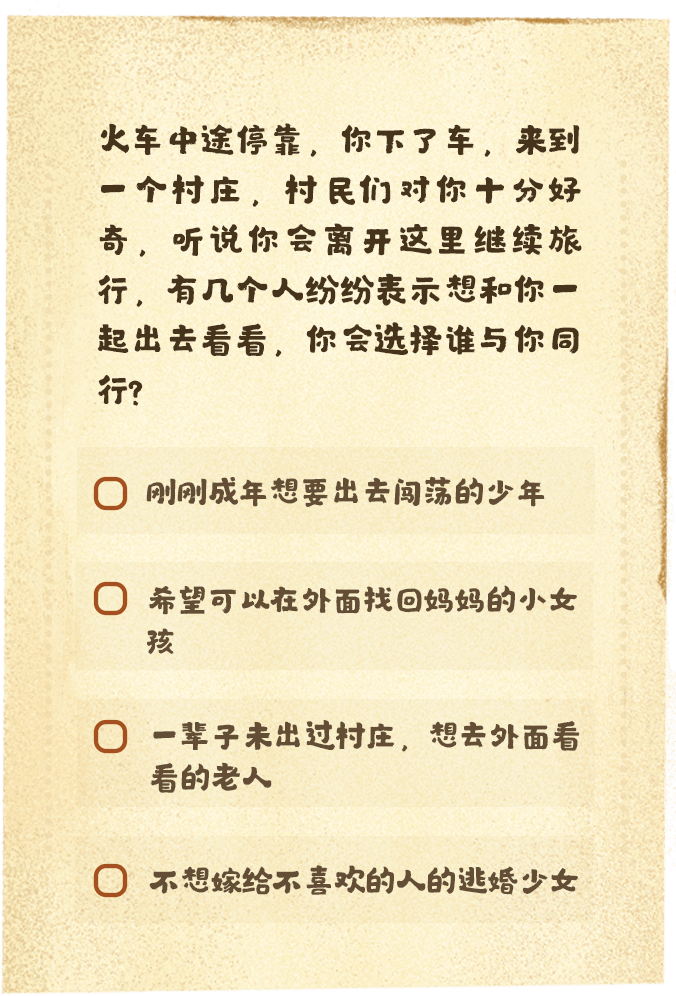
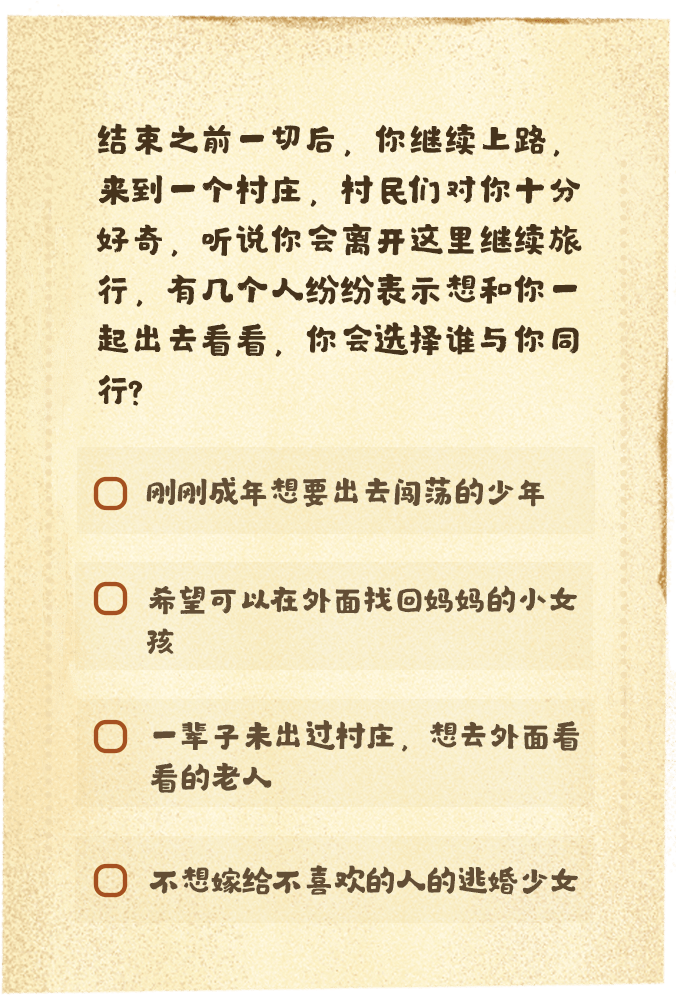
feat: 修改题目跳转

Changed region(s): [[0.1243, 0.1245, 0.8698, 0.2801]]

diff --git a/src/components/Home/config.js b/src/components/Home/config.js
@@ -250,7 +250,7 @@ export const pageConfig = [
       {
         left: '0.45rem',
         top: '2.72rem',
-        jump: 14,
+        jump: 15,
         person:['hali'],
       },
     ],
